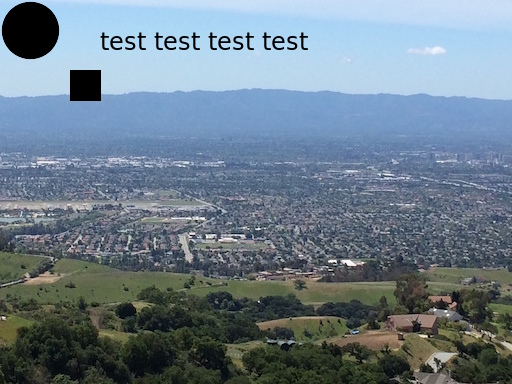
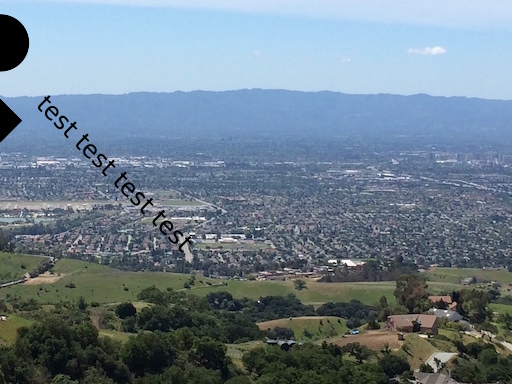
tests, fonts, cargo update

Changed region(s): [[0.0, 0.1562, 0.375, 0.6562], [0.1875, 0.0938, 0.5938, 0.1562], [0.0, 0.0, 0.125, 0.1875]]

diff --git a/src/wand/drawing.rs b/src/wand/drawing.rs
@@ -51,6 +51,12 @@ impl DrawingWand {
         }
     }
 
+    pub fn draw_rotate(&mut self, degrees: f64) {
+        unsafe {
+            bindings::DrawRotate(self.wand, degrees);
+        }
+    }
+
     pub fn draw_rectangle(
         &mut self,
         upper_left_x: f64,

diff --git a/tests/lib.rs b/tests/lib.rs
@@ -511,13 +511,15 @@ fn test_draw_annotation() {
     dwand.set_stroke_antialias(1);
     dwand.set_text_antialias(1);
     dwand.set_fill_color(&pw);
+    dwand.draw_rotate(45.0);
+
     dwand.draw_annotation(
         100.0,50.0,
         "test test test test"
     ).unwrap();
+
     dwand.draw_circle(30.0,30.0,50.0,50.0);
     dwand.draw_rectangle(70.0,70.0,100.0,100.0);
-
     mwand.draw_image(&dwand).unwrap();
 
     mwand.write_images("tests/data/IMG_5745_draw_annotation.JPG",false).unwrap();